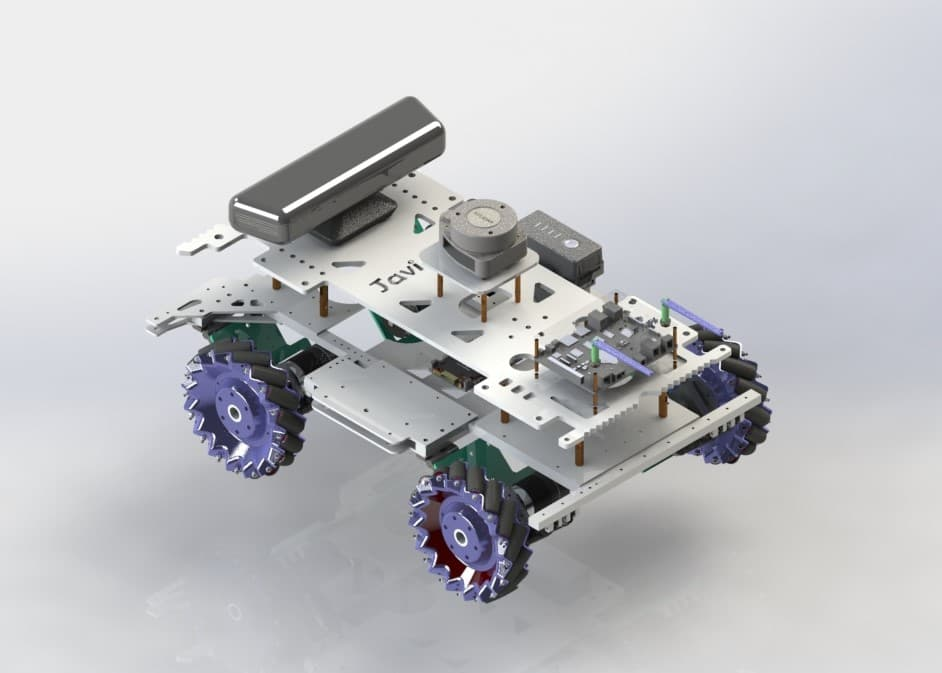
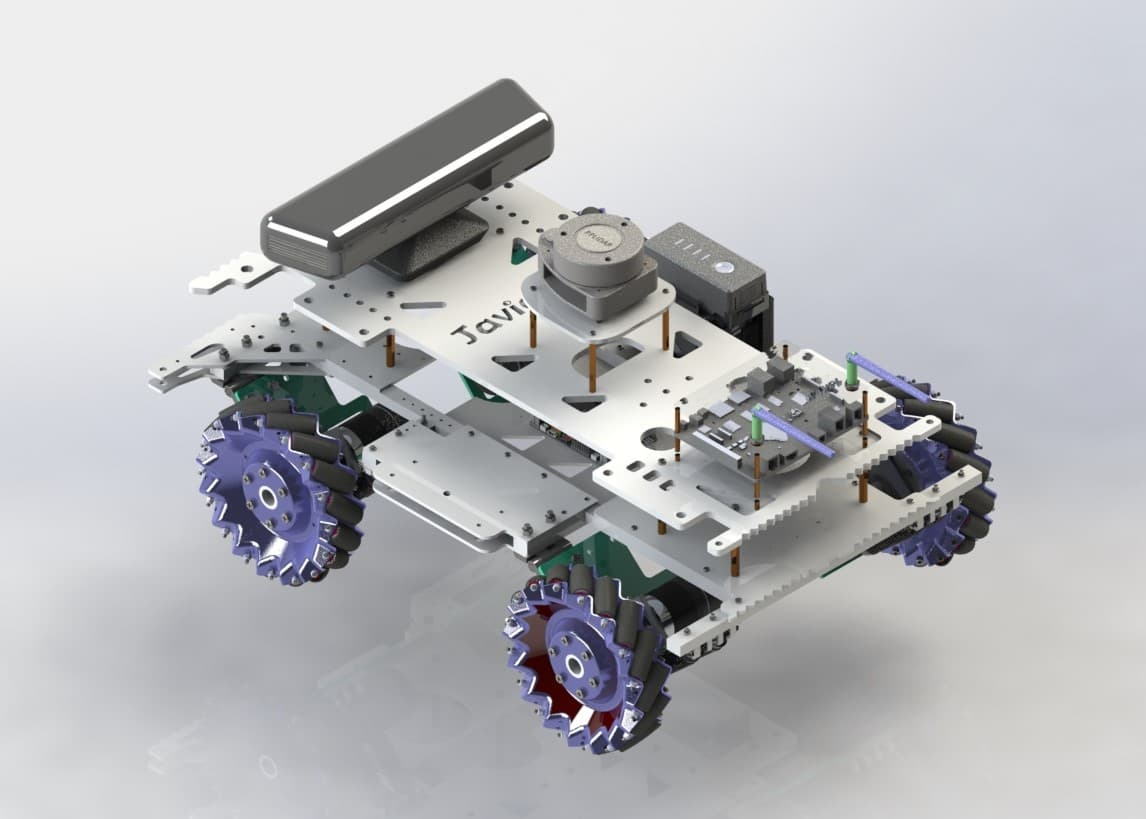
Update Photo

Changed region(s): [[0.1231, 0.0936, 0.8928, 0.9361], [0.6773, 0.7801, 0.8004, 0.9361], [0.6157, 0.9985, 0.6465, 1.0]]

diff --git a/README.md b/README.md
@@ -13,22 +13,22 @@ RoboCar系列博客: [Blogs](https://javid.cn/tag/robocar/)
 
 ### 1.1 正面(Front)
 
-<div><img src="https://cdn.jsdelivr.net/gh/Javid-Xi/Auto-Navigation-RoboCar@1.1/Model/robocar1.jpg" width="80%" /></div> 
+<div><img src="https://cdn.jsdelivr.net/gh/Javid-Xi/Auto-Navigation-RoboCar@1.2/Model/robocar1.jpg" width="80%" /></div> 
 
 ### 1.2 背面(Back)
 
-<div><img src="https://cdn.jsdelivr.net/gh/Javid-Xi/Auto-Navigation-RoboCar@1.1/Model/robocar2.jpg" width="80%" /></div>
+<div><img src="https://cdn.jsdelivr.net/gh/Javid-Xi/Auto-Navigation-RoboCar@1.2/Model/robocar2.jpg" width="80%" /></div>
 
 ### 1.3 底部(Bottom)
 
-<center><img src="https://cdn.jsdelivr.net/gh/Javid-Xi/Auto-Navigation-RoboCar@1.1/Model/robocar5.jpg" width="80%" style="border-radius:20px"/></center>
+<center><img src="https://cdn.jsdelivr.net/gh/Javid-Xi/Auto-Navigation-RoboCar@1.2/Model/robocar3.jpg" width="80%" style="border-radius:20px"/></center>
 
 ### 1.4 侧面(Side)
 
 <table>
 	<tr>
-		<td><img src="https://cdn.jsdelivr.net/gh/Javid-Xi/Auto-Navigation-RoboCar@1.1/Model/robocar3.jpg"></td>
-		<td><img src="https://cdn.jsdelivr.net/gh/Javid-Xi/Auto-Navigation-RoboCar@1.1/Model/robocar4.jpg"></td>
+		<td><img src="https://cdn.jsdelivr.net/gh/Javid-Xi/Auto-Navigation-RoboCar@1.2/Model/robocar4.jpg"></td>
+		<td><img src="https://cdn.jsdelivr.net/gh/Javid-Xi/Auto-Navigation-RoboCar@1.2/Model/robocar5.jpg"></td>
 	</tr>
 </table>
 
